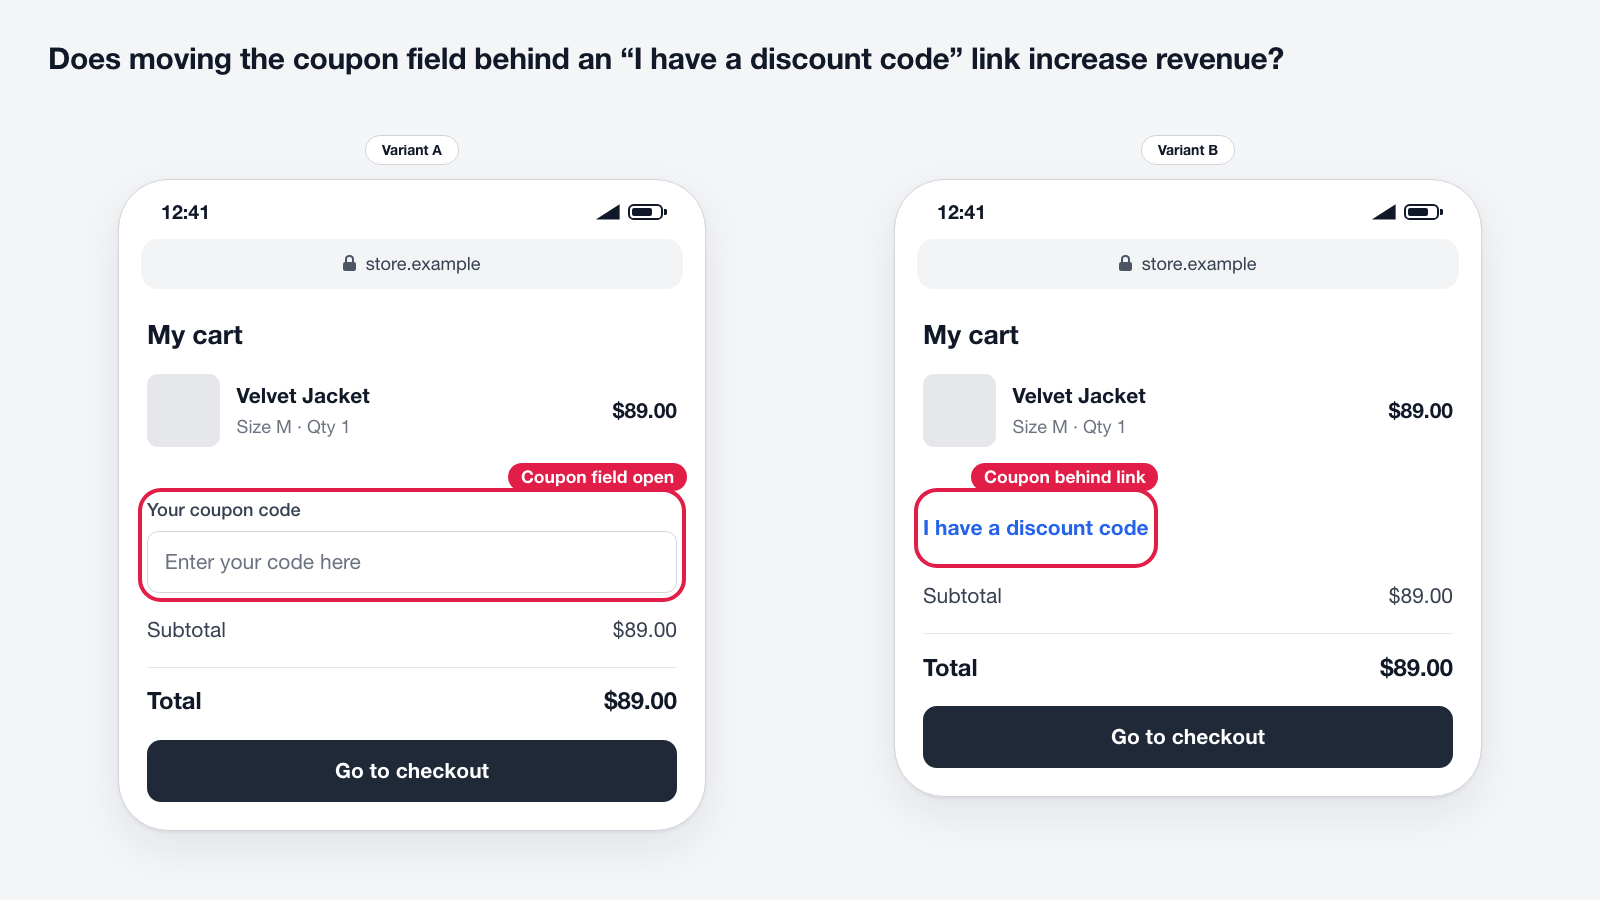
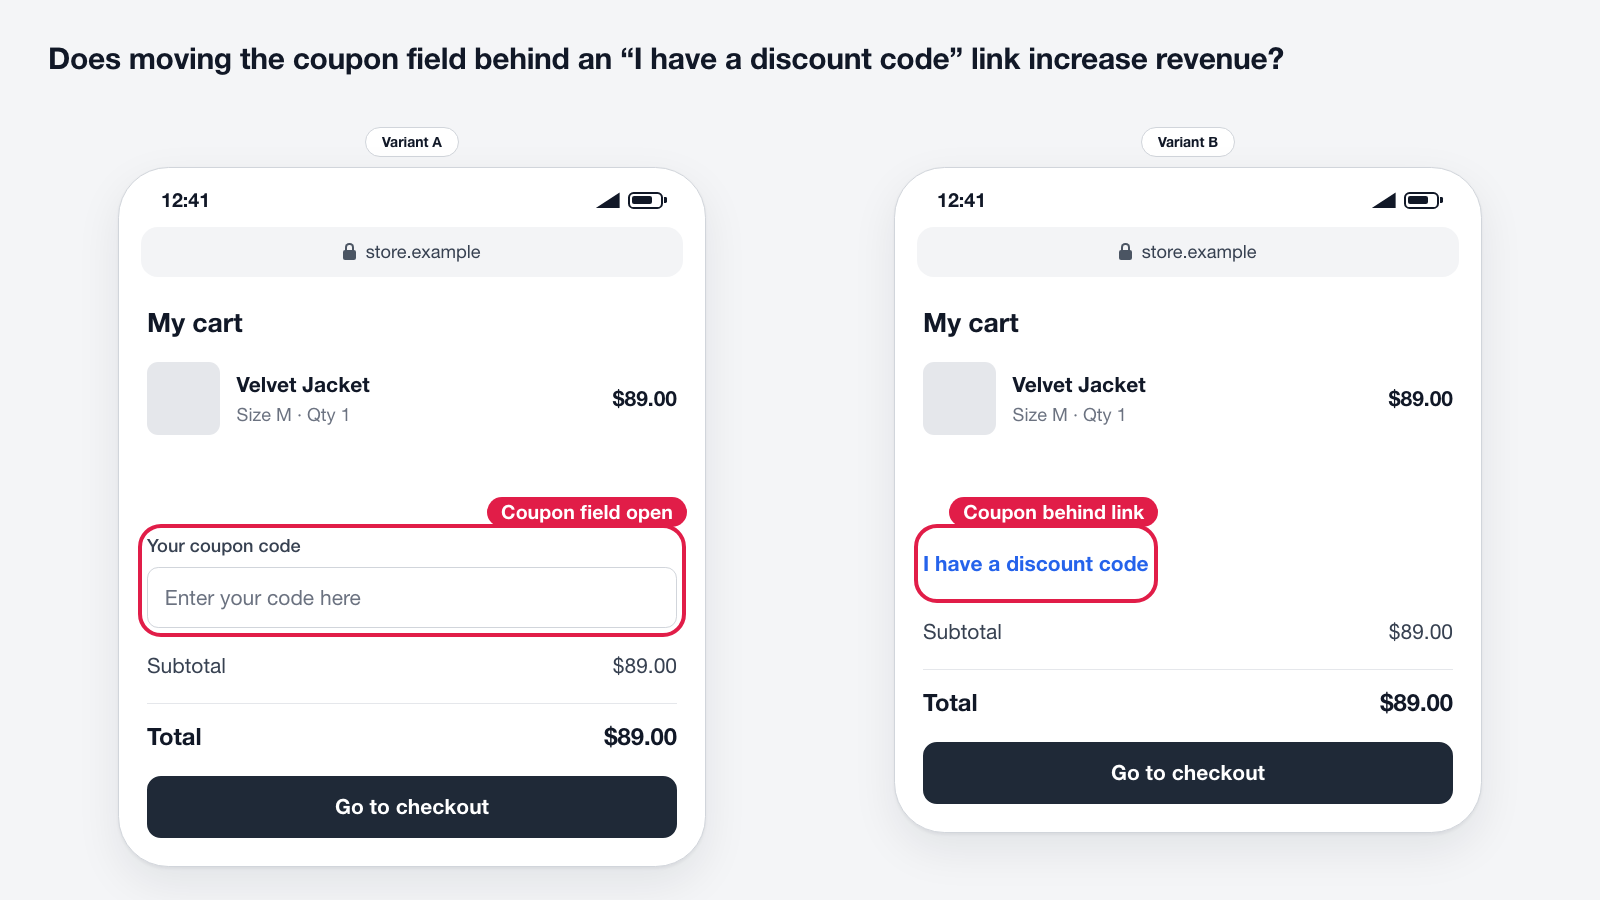
Demo: English card rebuilt on the new template, checked by validate.sh; social preview refreshed

diff --git a/docs/demo/scenario-card-en.html b/docs/demo/scenario-card-en.html
@@ -21,30 +21,33 @@
   body{font-family:-apple-system,"Segoe UI",Inter,Roboto,"Helvetica Neue",Arial,sans-serif;color:var(--text);
        -webkit-font-smoothing:antialiased}
 
-  /* ---- kart: 1600 × 900, başlık + iki sütun ---- */
-  .card{position:relative;width:1600px;height:900px;overflow:hidden;padding:40px 48px;background:#f4f5f7;
-        display:flex;flex-direction:column;gap:28px}
-  .title{flex:0 0 auto;font-size:30px;line-height:1.25;font-weight:650;letter-spacing:-.01em;color:#111827}
+  /* ---- kart: 1600 × 900, başlık + iki sütun ----
+     Başlık kutusu hep iki satır yüksekliğindedir (tek satırlık başlıkta da): sahne, haplar ve çerçeveler
+     her kartta aynı y'de başlar (haplar y=127, çerçeve y=167), kartlar desteye dizilince zıplamaz. */
+  .card{position:relative;width:1600px;height:900px;overflow:hidden;padding:40px 48px 32px;background:#f4f5f7;
+        display:flex;flex-direction:column;gap:12px}
+  .title{flex:0 0 auto;min-height:75px;font-size:30px;line-height:1.25;font-weight:650;letter-spacing:-.01em;color:#111827}
   /* Sahne başlığın altındaki alanın tamamı; iki sütun tek satırdır, satır içerik kadar uzun (en fazla
-     sahne) ve sahnede dikey ortalanır: A ile B hep aynı y'de başlar, kısa ekranda boşluk alta yığılmaz. */
+     sahne) ve sahnenin ÜSTÜNE hizalanır: çerçeve ne kadar kısa olursa olsun A ile B hapların hemen
+     altında, aynı y'de başlar; kısa ekranda boşluk altta kalır. */
   .stage{flex:1 1 0;min-height:0;display:grid;grid-template-columns:repeat(2,minmax(0,1fr));
-         grid-template-rows:minmax(0,max-content);align-content:center;column-gap:48px}
-  .variant{min-width:0;min-height:0;display:flex;flex-direction:column;align-items:center;gap:14px}
+         grid-template-rows:minmax(0,max-content);align-content:start;column-gap:48px}
+  .variant{min-width:0;min-height:0;display:flex;flex-direction:column;align-items:center;gap:10px}
   .pill{flex:0 0 auto;font-size:14px;font-weight:600;line-height:1;padding:7px 16px;border-radius:999px;white-space:nowrap}
   /* İki hap aynı biçimdedir, yalnızca metin farklı: hiçbir kolda kazanan rengi yok. */
   .pill-a,.pill-b{background:#ffffff;border:1px solid #d1d5db;color:#111827}
 
   /* ---- telefon çerçevesi (device: phone, phone-web): ekran 420px, yükseklik = içerik ----
-     zoom:1.2 çerçeveyi bütün olarak 504px'e büyütür (oranlar korunur): telefon sütunun ~%70'ini kaplar,
-     değişken kolay okunur. İçerik en fazla ~590px (ölçeklenmiş ~710px) olabilir; aşarsa render_check hata verir. */
+     zoom:1.2 çerçeveyi bütün olarak 504px'e büyütür (oranlar korunur): telefonun TEK varsayılan boyutu.
+     Ölçeği yazar seçmez: build_card.py içeriğin yüksekliğini tahmin eder (auto_scale) ve yalnızca gerekince
+     değiştirir (uzun ekran sığsın diye 1'e kadar küçültür, çok kısa ekranı 1.4'e büyütür); seçtiği ölçeği
+     <style> sonuna tek satır olarak yazar. Yine de sığmayan içerik kesilir ve render_check hata verir. */
   .phone{zoom:1.2;--fs:15px;--fs-sm:13px;--fs-ctl:14px;--fs-h:19px;--fs-lg:17px;--fs-xl:26px;--tap:44px;--tap-sm:44px;
          flex:0 1 auto;min-height:0;width:420px;max-width:100%;display:flex;flex-direction:column;overflow:hidden;
          background:#ffffff;border:1px solid #d1d5db;border-radius:36px;
          box-shadow:0 1px 2px rgba(17,24,39,.05),0 12px 32px rgba(17,24,39,.08)}
-  /* card.phone_scale: 1 → çerçeve büyütülmez (420px): uzun bir form ya da ekran sahneye sığsın diye; varsayılan 1.2;
-     1.4 → kısa bir ekran sahnenin çoğunu boş bırakmasın diye büyütülür. Devam yaprağı (.below) aynı ölçekle çizilir. */
-  .card[data-phone-scale="1"] .phone{zoom:1}
-  .card[data-phone-scale="1.4"] .phone{zoom:1.4}
+  /* card.phone_scale (1, 1.2, 1.4) yazılmışsa otomatik seçimin yerine o kullanılır; gerekmez.
+     Devam yaprağı (.below) telefonla aynı ölçekle çizilir. */
   .statusbar{flex:0 0 auto;display:flex;justify-content:space-between;align-items:center;padding:16px 30px 10px;
              font-size:14px;font-weight:600;line-height:1;color:#111827}
   .sb-icons{display:flex;align-items:center;gap:6px}
@@ -81,8 +84,10 @@
   .m-home{display:flex;justify-content:center;align-items:center;height:22px}
   .m-home>span{display:block;width:120px;height:5px;border-radius:3px;background:#111827}
 
-  /* ---- tarayıcı çerçevesi (device: web): sütun genişliği, yükseklik = içerik ---- */
-  .browser{--fs:14px;--fs-sm:13px;--fs-ctl:14px;--fs-h:18px;--fs-lg:16px;--fs-xl:24px;--tap:40px;--tap-sm:34px;
+  /* ---- tarayıcı çerçevesi (device: web): sütun genişliği, yükseklik = içerik ----
+     Taban ölçü 16px: kart yarı boya (800px) indiğinde de masaüstü metni okunur. build_card.py çerçeveyi
+     sahneyi dolduracak kadar büyütür (zoom 1-1.4, auto_scale); card.web_scale yazılmışsa o kullanılır. */
+  .browser{--fs:16px;--fs-sm:14px;--fs-ctl:15px;--fs-h:22px;--fs-lg:18px;--fs-xl:28px;--tap:44px;--tap-sm:36px;
            flex:0 1 auto;min-height:0;width:100%;display:flex;flex-direction:column;overflow:hidden;
            background:#ffffff;border:1px solid #d1d5db;border-radius:14px;
            box-shadow:0 1px 2px rgba(17,24,39,.05),0 12px 32px rgba(17,24,39,.08)}
@@ -96,18 +101,32 @@
                   padding:20px 24px 24px;font-size:var(--fs);line-height:1.45;color:#111827}
 
   /* ---- değişen öğe işareti ----
-     Halka outline ile çizilir: yer kaplamaz, halkalı ve halkasız varyant aynı hizada kalır.
-     Parıltı ve dolgu yok. Etiket halkanın dışında, sağ üst köşesine oturur; data-pos="below"
-     (tek halka) ya da card.note_pos (tüm kart) onu alta alır. */
+     Halka outline ile çizilir: yer kaplamaz. Parıltı ve dolgu yok. Etiket 14px, halkanın dışında.
+     Etiketin yerini build_card.py seçer (label_placement) ve kolun .variant öğesine yazar:
+     data-label="above end" (varsayılan: sağ üst), "below" alta, "start" halkanın sol kenarına hizalar.
+     Önce yazarın istediği yer denenir (data-pos, card.note_pos, label_pos), o yer metni örtecekse ya da
+     ekrandan taşacaksa diğerleri. Etiketin durduğu tarafta halkanın dışında hep 34px yer açılır
+     (!important: satır içi bir margin onu daraltamaz), etiket komşusunu örtmez. */
   .hl{position:relative;border-radius:10px;outline:3px solid var(--ring);outline-offset:4px}
   .hl[data-note]::after{content:attr(data-note);position:absolute;right:-7px;bottom:calc(100% + 4px);z-index:3;
-      background:var(--ring);color:#ffffff;font-size:12.5px;font-weight:600;line-height:1;letter-spacing:0;
-      padding:4px 9px;border-radius:999px;white-space:nowrap}
-  .hl[data-pos="below"]::after,.card[data-note-pos="below"] .hl:not([data-pos="above"])::after{bottom:auto;top:calc(100% + 4px)}
+      background:var(--ring);color:#ffffff;font-size:14px;font-weight:700;line-height:1;letter-spacing:0;
+      padding:4px 10px;border-radius:999px;white-space:nowrap}
+  .variant:not([data-label~="below"]) .hl[data-note]{margin-top:34px!important}
+  .variant[data-label~="below"] .hl[data-note]{margin-bottom:34px!important}
+  .variant[data-label~="below"] .hl[data-note]::after{bottom:auto;top:calc(100% + 4px)}
+  .variant[data-label~="start"] .hl[data-note]::after{right:auto;left:-7px}
+  /* Kısa bir metin öğesinin halkası satırı değil metni sarar. */
+  .hl:has(>.r-link:only-child),.hl:has(>.r-label:only-child),.hl:has(>.r-name:only-child),.hl:has(>.r-meta:only-child),
+  .hl:has(>.r-price:only-child),.hl:has(>.r-plan-name:only-child),.hl:has(>.r-plan-price:only-child),
+  .hl:has(>div:only-child>.r-badge:only-child){width:fit-content;max-width:100%;align-self:flex-start}
+  /* Halkalı bir alan etiketi ya da ürün adı ile altındaki öğe arasında halkanın sığacağı kadar yer kalır. */
+  .hl:has(>.r-label:only-child),.r-item-body>.hl{margin-bottom:8px}
+  .hl>.r-label:only-child{margin-bottom:0}
+  .hl>.r-meta:only-child{margin-top:0}
   /* Yumuşak halka (.hl-soft): değişkenin bağlı sonucu, daha az vurgulu; etiketi beyaz zeminli çerçeveli hap. */
   .hl-soft{position:relative;border-radius:10px;outline:2px dashed var(--ring);outline-offset:4px}
   .hl-soft[data-note]::after{content:attr(data-note);position:absolute;right:-6px;bottom:calc(100% + 4px);z-index:3;
-      background:#ffffff;color:var(--ring);border:1px solid var(--ring);font-size:12px;font-weight:600;line-height:1;
+      background:#ffffff;color:var(--ring);border:1px solid var(--ring);font-size:13px;font-weight:600;line-height:1;
       padding:3px 8px;border-radius:999px;white-space:nowrap}
   .hl-soft[data-pos="below"]::after,.card[data-note-pos="below"] .hl-soft:not([data-pos="above"])::after{bottom:auto;
       top:calc(100% + 4px)}
@@ -119,15 +138,14 @@
      Devam yaprağı varken telefon ezilmez (ilk ekran iki kolda aynı kalır); sahneye sığmayan yaprak kesilir
      ve render_check bunu hata sayar: phone_scale 1 ya da daha kısa içerik. */
   .r-fold,.r-stage-break{display:none}
-  .screen.has-sticky{padding-bottom:calc(var(--tap) + 56px)}
+  .screen.has-sticky{padding-bottom:calc(var(--tap) + 60px)}
   .r-sticky{position:absolute;left:0;right:0;bottom:0;z-index:1;padding:10px 20px;background:var(--surface);
             border-top:1px solid var(--line);box-shadow:0 -2px 8px rgba(17,24,39,.06)}
+  .card .screen .r-sticky .hl[data-note]{margin:0!important}
   .card .screen .r-sticky .hl[data-note]::after{top:auto;bottom:calc(100% + 17px)}
   .phone:has(+ .below){flex-shrink:0}
   .below{zoom:1.2;--fs:15px;--fs-sm:13px;--fs-ctl:14px;--fs-h:19px;--fs-lg:17px;--fs-xl:26px;--tap:44px;--tap-sm:44px;
          flex:0 1 auto;min-height:0;width:418px;max-width:100%;display:flex;flex-direction:column;gap:6px}
-  .card[data-phone-scale="1"] .below{zoom:1}
-  .card[data-phone-scale="1.4"] .below{zoom:1.4}
   .below-cap{flex:0 0 auto;font-size:13px;font-weight:500;line-height:1.3;color:#4b5563;padding-left:2px}
   .below-screen{flex:0 1 auto;min-height:0;overflow:hidden;position:relative;display:flex;flex-direction:column;gap:16px;
                 padding:14px 19px 20px;background:#ffffff;border:1px solid #e5e7eb;border-radius:0 0 14px 14px;
@@ -145,6 +163,8 @@
   .stage-col .statusbar,.stage-col .m-addr,.stage-col .bottomnav span,.stage-col .r-steps,.stage-col .r-badge,
   .stage-col .hl[data-note]::after,.stage-col .hl-soft[data-note]::after{font-size:15px}
   .stage-col .r-info::before{width:19px;height:19px;line-height:19px;font-size:15px}
+  .variant:not([data-label~="below"]) .stage-col .hl[data-note]{margin-top:42px!important}
+  .variant[data-label~="below"] .stage-col .hl[data-note]{margin-bottom:42px!important}
 
   /* ---- GERÇEKÇİ İÇERİK BİLEŞENLERİ ----
      Boyutlar çizildikleri boyuttur (ölçekleme yok). Çerçeve taban ölçüyü verir: --fs telefonda 15px,
@@ -212,7 +232,8 @@
   .r-plan-price{font-size:var(--fs-xl);font-weight:700;line-height:1.2;color:#111827}
   .r-plan-feat{list-style:none;display:flex;flex-direction:column;gap:4px;font-size:var(--fs-sm);color:#374151}
   .r-plan-feat li::before{content:"✓ ";color:var(--success);font-weight:700}
-  .r-steps{display:flex;gap:6px;font-size:12px;color:#6b7280}
+  .r-plan .r-cta,.r-tile .r-cta{padding:0 10px}
+  .r-steps{display:flex;gap:6px;font-size:13px;color:#6b7280}
   .r-steps span{flex:1;min-width:0;border-top:3px solid #e5e7eb;padding-top:6px;white-space:nowrap;overflow:hidden}
   .r-steps span.done{border-top-color:var(--success);color:#374151}
   .r-steps span.on{border-top-color:var(--brand);color:#111827;font-weight:600}
@@ -224,7 +245,7 @@
   .r-radio::before{border-radius:50%}
   .r-check.on::before{background:var(--brand);border-color:var(--brand);box-shadow:inset 0 0 0 3px #ffffff}
   .r-radio.on::before{border-color:var(--brand);background:var(--brand);box-shadow:inset 0 0 0 4px #ffffff}
-  .r-chips{display:flex;flex-wrap:wrap;gap:8px}
+  .r-chips{display:flex;flex-wrap:wrap;align-items:flex-end;gap:8px}
   .r-chip{display:inline-flex;align-items:center;min-height:36px;padding:0 14px;border:1px solid #d1d5db;border-radius:999px;
           background:#ffffff;font-size:var(--fs-ctl);color:#374151;white-space:nowrap}
   .r-chip.on{border-color:var(--brand);color:var(--brand);font-weight:600}
@@ -243,19 +264,20 @@
   .r-modal{width:100%;display:flex;flex-direction:column;gap:12px;padding:20px;border-radius:16px;background:#ffffff;
            box-shadow:0 16px 40px rgba(17,24,39,.25)}
   .r-banner{background:var(--brand);color:var(--on-brand);font-size:var(--fs-sm);font-weight:600;padding:10px 12px;border-radius:10px}
-  .r-badge{display:inline-block;padding:4px 10px;border-radius:999px;background:#f0fdf4;color:var(--success);font-size:12px;
+  .r-badge{display:inline-block;padding:4px 10px;border-radius:999px;background:#f0fdf4;color:var(--success);font-size:13px;
            font-weight:600;line-height:1.2}
   .r-badge.warn{background:#fffbeb;color:var(--warning)}
   .r-badge.brand{background:var(--brand);color:var(--on-brand)}
   .r-stars{font-size:var(--fs-sm);color:var(--warning);letter-spacing:1px}
   .r-divider{height:1px;background:#e5e7eb}
+  .phone,.below{zoom:1.4}
 </style>
 </head>
 <body>
-<div class="card" data-device="phone-web" data-note-pos="above" data-phone-scale="1.4">
+<div class="card" data-device="phone-web" data-note-pos="above" data-phone-scale="1.4" data-scale="manual">
   <h1 class="title">Does moving the coupon field behind an “I have a discount code” link increase revenue?</h1>
   <div class="stage">
-    <div class="variant">
+    <div class="variant" data-label="above end">
       <span class="pill pill-a">Variant A</span>
       <div class="phone">
         <div class="statusbar"><span>12:41</span><span class="sb-icons"><span class="sig"></span><span class="batt"></span></span></div>
@@ -280,7 +302,7 @@
         </div>
       </div>
     </div>
-    <div class="variant">
+    <div class="variant" data-label="above end">
       <span class="pill pill-b">Variant B</span>
       <div class="phone">
         <div class="statusbar"><span>12:41</span><span class="sb-icons"><span class="sig"></span><span class="batt"></span></span></div>
